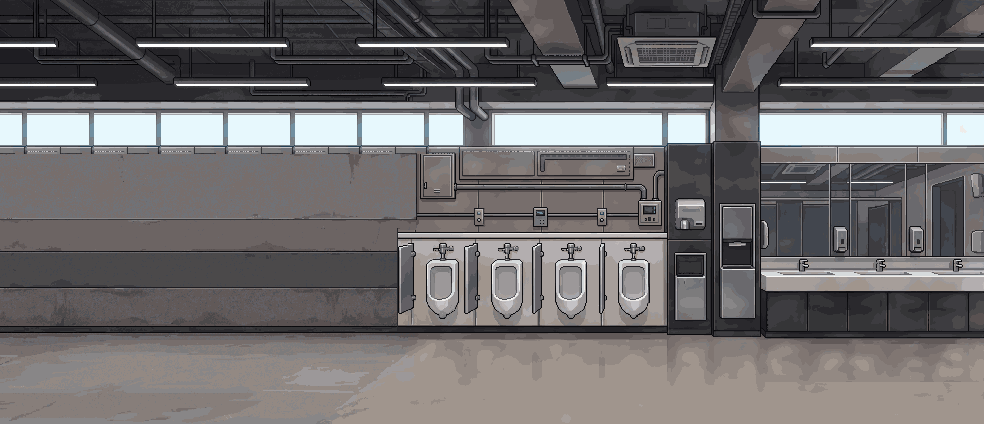
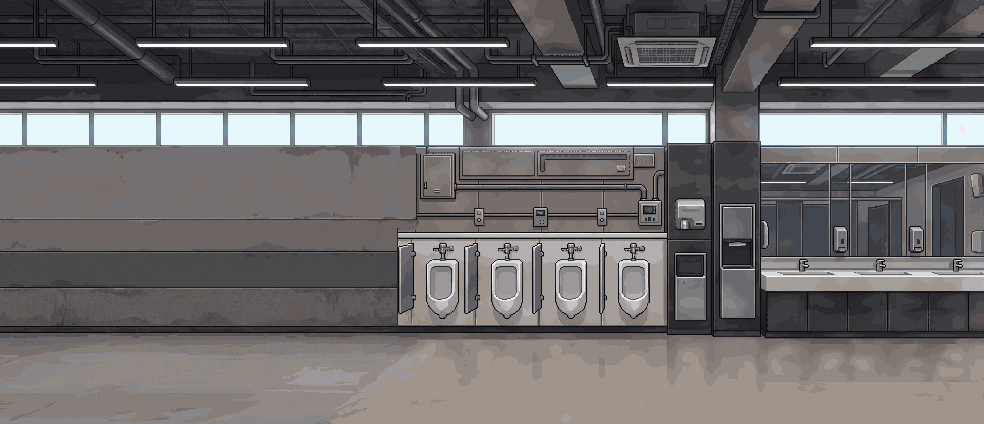
남자 화장실 잇기3: 창 아래 턱 토막 무늬 걷어냄
Claude-Session: https://claude.ai/code/session_01MHVZo2gWEZNiCHZMUdtsC3

Changed region(s): [[0.0, 0.3373, 0.4268, 0.3679]]

diff --git a/tools/bg_fix/restroom_m_ext3L_fix.py b/tools/bg_fix/restroom_m_ext3L_fix.py
@@ -28,3 +28,11 @@ r = np.array(Image.open(D + 'hq_restroom_m_ext3L_fix.png').convert('RGBA'))
 r[154:230, 400:416] = r[154:230, 370:386]
 Image.fromarray(r).save(D + 'hq_restroom_m_ext3L_fix.png')
 print('ok3')
+
+# 4) 12:02 사용자 지적: 창 띠 반복에 딸려 온 창 아래 턱(y146~153)의 꺾쇠·점선이 토막토막 → 그 줄은 생성된 빈 콘크리트 벽으로 되돌림
+o = np.array(Image.open(D + 'hq_restroom_m_ext3L.png').convert('RGBA'))
+r = np.array(Image.open(D + 'hq_restroom_m_ext3L_fix.png').convert('RGBA'))
+r[146:154, 0:400] = o[146:154, 0:400]
+r[146:154, 400:416] = o[146:154, 370:386]
+Image.fromarray(r).save(D + 'hq_restroom_m_ext3L_fix.png')
+print('ok4')
